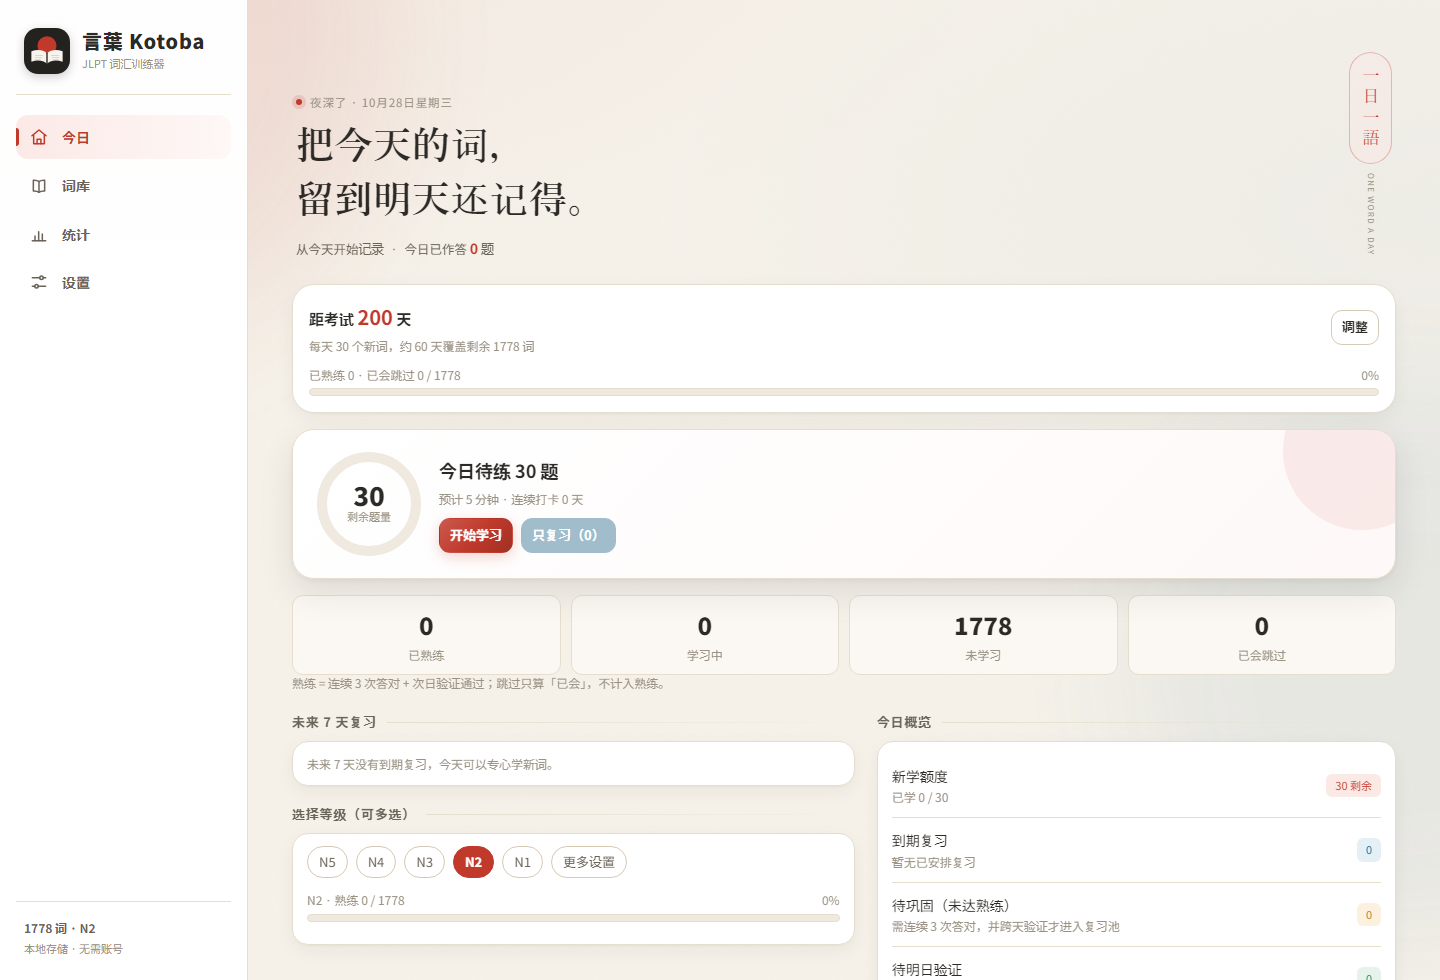
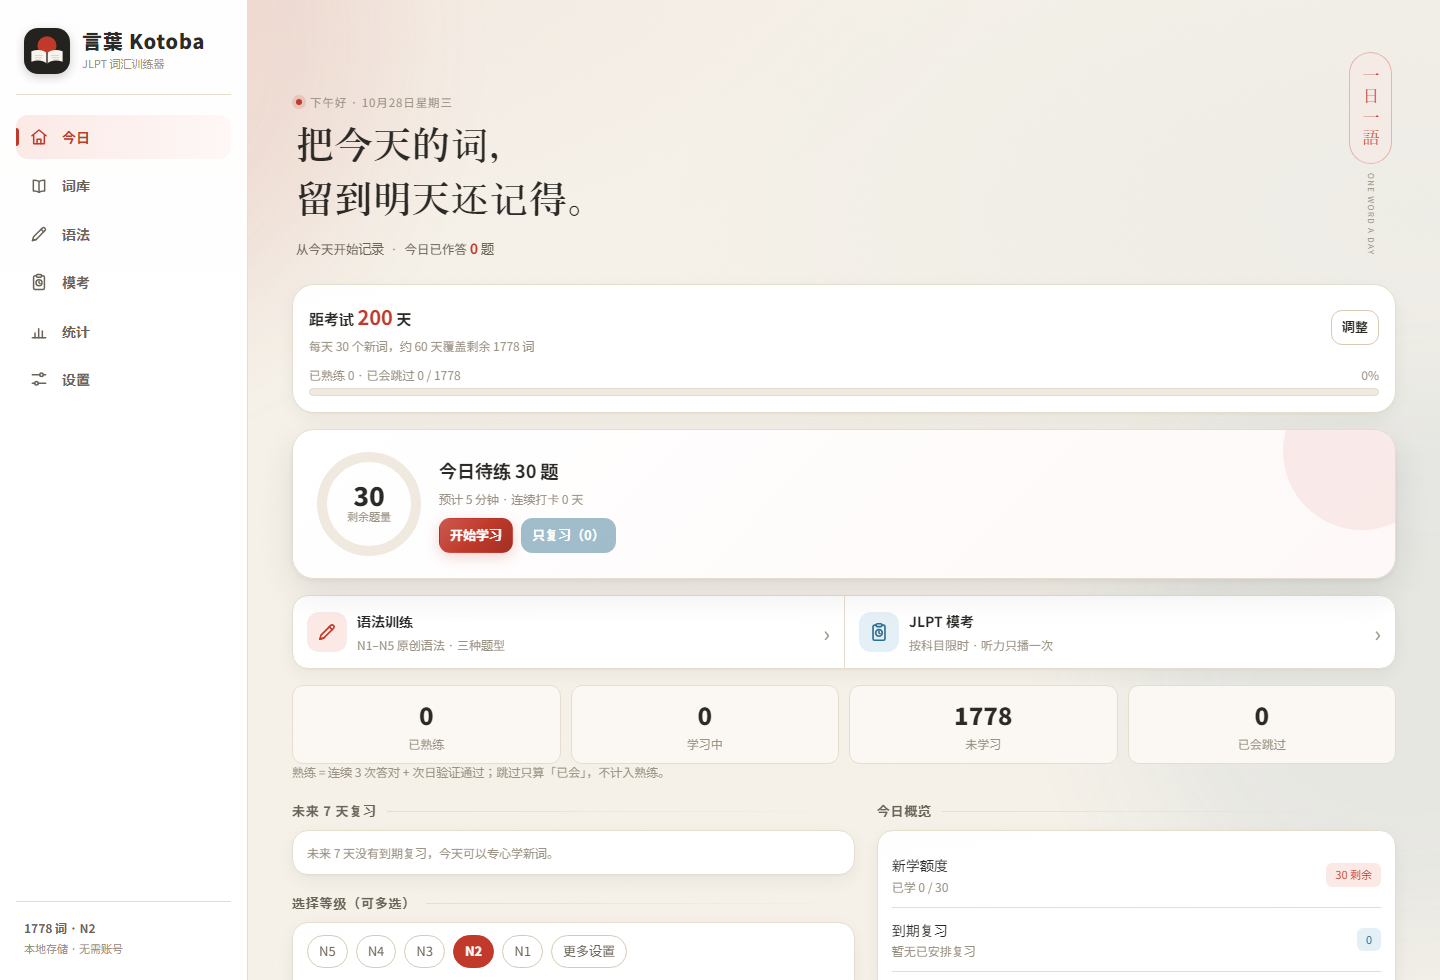
docs: 补充语法训练与模考的界面截图和说明

diff --git a/docs/HANDOVER.md b/docs/HANDOVER.md
@@ -5,7 +5,7 @@
 > **本地路径**：`E:\hc\kotoba-jlpt`
 > **当前状态**：Web + Android 双端闭环；Web 通过类型检查、**70 项单测**、生产构建、Playwright 全流程与离线重载；
 > 本轮新增 **140 个原创语法点 / 15 篇阅读 / 30 道听力 / 限时 JLPT 模考**（原创题库，不含真题），
-> 已在浏览器实测语法练习、模考分部分提交、听力只播一次、交卷解析与历史成绩；Android 端尚未重新打包；
+> 已在浏览器实测语法练习、模考分部分提交、听力只播一次、交卷解析与历史成绩；Android debug APK 已重新构建并确认包含新题库，release APK 未重建；
 > Android 14（API 34）模拟器走通完整学习流程（撤销 / 结算 / 深色 / 断网重载 / 返回键 / 横屏，控制台零报错）；
 > 已用本地 keystore 签出 **v1.0.0 release APK（4.4 MB）**并发布到 GitHub Releases，debug APK 约 5.4 MB。
 > 本轮完成 README 用户化改版、品牌 Logo 与全端图标、词性补全与多义项、
@@ -32,13 +32,13 @@
 | 中文释义补录 | 人工补录 1296 条 | `data/overrides/zh_glosses_1~5.json` | ✅ 已入库 |
 | 词库成品 | N5–N1 五个分级 JSON + 索引 | `data/processed/` | ✅ 括号配对 0 异常，已重建 |
 | Web 应用 | React 18 + TS + Vite + PWA | `web/` | ✅ 本轮已重建 |
-| Android 应用 | Capacitor 6 打包 | `web/android/` | ✅ v1.0.0 release APK 4.4 MB 已签名并发布；debug 5.4 MB；模拟器全流程通过，真机 TTS 未验证 |
+| Android 应用 | Capacitor 6 打包 | `web/android/` | ✅ v1.0.0 release APK 4.4 MB 已签名并发布；debug 5.4 MB 已用新题库重建；模拟器全流程通过，真机 TTS 未验证 |
 | 算法验证 | 蒙特卡洛模拟 + 参数敏感性 | `sim/` | ✅ 结论稳定（32 次重复） |
 | 单元测试 | **70 项**（srs / quiz / scheduler / pace / grammar / exam） | `web/src/core/*.test.ts` | ✅ 全部通过 |
 | 原创题库 | 语法 140 点、阅读 15 篇 / 25 题、听力 30 题 | `data/content/*.json` | ✅ 结构校验 + 全局 ID 唯一 |
 | 语法训练 | 三种题型、进度、详情、练习与错题回顾 | `web/src/pages/Grammar.tsx`、`core/grammar.ts` | ✅ 浏览器实测通过 |
 | JLPT 模考 | 分科倒计时、锁定提交、听力单播、评分与历史成绩 | `web/src/pages/Exam*.tsx`、`core/exam.ts` | ✅ 浏览器实测全流程通过 |
-| 界面自查 | Playwright 截图 + 控制台错误监控 | `scripts/capture.mjs`、`docs/screenshots/` | ✅ 21 张截图（含 Android 实拍） |
+| 界面自查 | Playwright 截图 + 控制台错误监控 | `scripts/capture.mjs`、`docs/screenshots/` | ✅ 27 张截图（含语法、模考与 Android 实拍） |
 | Android 冒烟 | WebView CDP + adb 截图 + 断网/横屏检查 | `scripts/android-smoke.mjs` | ✅ 模拟器全流程通过 |
 | 布局自查 | 手机 / 平板 / 桌面三档截图 | `scripts/inspect-layout.mjs` | ✅ 三档无横向溢出 |
 | 文档 | 面向用户的 README、设计说明、交接文档 | `README.md`、`docs/DESIGN.md`、本文 | ✅ README 只保留功能、优势、截图与使用说明，技术细节留在 docs |
@@ -254,6 +254,10 @@
   考试页进入专注模式（隐藏顶栏 / 侧栏 / 底栏）；Android 返回键在考试中触发退出确认。
 - **实测**：浏览器走通语法列表 / 详情 / 练习反馈 / 进度持久化；N5 模考完成两科提交、听力单播、
   交卷解析与历史成绩回看。模考大堂题量文案按实际 37 题修正。
+- **截图**：`capture.mjs` 新增语法列表 / 语法练习 / 模考大堂 / 限时答题 / 桌面端语法与模考截图，
+  README 已引用；本轮共生成 24 张 Web 截图（仓库合计 27 张，含 Android 实拍）。
+- **Android**：`npm run android:debug` 构建成功（5.4 MB），已确认 APK 的 `assets/public/data/content/`
+  包含语法、阅读、听力题库；release APK 与 GitHub Release 本轮未更新。
 
 ---
 

diff --git a/README.md b/README.md
@@ -193,6 +193,13 @@ N5、N4、N3、N2、N1 可以单选，也可以多选混排。选 N2 就只推 N
 
 > 语法点与例句均为项目原创，不包含官方真题或教材原文。
 
+<p align="center">
+  <img src="docs/screenshots/mobile-grammar.png" width="30%" alt="语法训练列表" />
+  <img src="docs/screenshots/mobile-grammar-quiz.png" width="30%" alt="语法练习" />
+  <img src="docs/screenshots/desktop-grammar.png" width="30%" alt="桌面端语法训练" />
+</p>
+<p align="center"><sub>按等级与掌握状态筛选 · 三种题型轮换 · 桌面端双列浏览</sub></p>
+
 ---
 
 ## JLPT 模考
@@ -208,6 +215,13 @@ N5、N4、N3、N2、N1 可以单选，也可以多选混排。选 N2 就只推 N
 题库体量小于真实试卷，因此时长按题量等比压缩（界面会标注），但科目顺序、单科最低分与合格线保持一致。
 
 > 本应用**不包含历年真题与官方听力音频**。所有题目和听力脚本均为原创，仅用于自测；官方样题请访问 [jlpt.jp 官方样题](https://www.jlpt.jp/e/samples/)。
+
+<p align="center">
+  <img src="docs/screenshots/mobile-exam.png" width="30%" alt="模考大堂" />
+  <img src="docs/screenshots/mobile-exam-runner.png" width="30%" alt="限时答题" />
+  <img src="docs/screenshots/desktop-exam.png" width="30%" alt="桌面端模考大堂" />
+</p>
+<p align="center"><sub>按等级查看结构与合格线 · 分部分倒计时 · 桌面端模考大堂</sub></p>
 
 ---
 
@@ -266,6 +280,8 @@ N5、N4、N3、N2、N1 可以单选，也可以多选混排。选 N2 就只推 N
 - [查看版本说明](https://github.com/SeupLio/kotoba-jlpt/releases/tag/v1.0.0)
 - 也可以按 [开发与交接说明](docs/HANDOVER.md) 自行构建
 
+> v1.0.0 APK 尚未包含本轮新增的语法训练与模考；最新 Web 代码已同步进 debug 包，正式 release 将在下个版本发布。
+
 ### 第一次打开
 
 1. 选择要学的等级（可多选）。
@@ -322,7 +338,7 @@ N5、N4、N3、N2、N1 可以单选，也可以多选混排。选 N2 就只推 N
 
 **Android 版在真机上稳定吗？**
 
-已在 Android 14（API 34）模拟器上走通新手引导、预习、多种题型、撤销、退出结算、词库搜索、统计、深色主题、软键盘、返回键、横竖屏与断网启动。不同厂商的 TTS、输入法与手势条可能存在差异，建议在自己的设备上再确认。发音音色与音调取决于系统语音包，本应用不含音调标注。语法训练与模考为新增功能，已在桌面浏览器完成全流程实测，Android 真机仍待抽测。
+已在 Android 14（API 34）模拟器上走通新手引导、预习、多种题型、撤销、退出结算、词库搜索、统计、深色主题、软键盘、返回键、横竖屏与断网启动。不同厂商的 TTS、输入法与手势条可能存在差异，建议在自己的设备上再确认。发音音色与音调取决于系统语音包，本应用不含音调标注。语法训练与模考为新增功能，已在桌面浏览器完成全流程实测，debug APK 已包含新题库，Android 真机仍待抽测。
 
 ---
 
